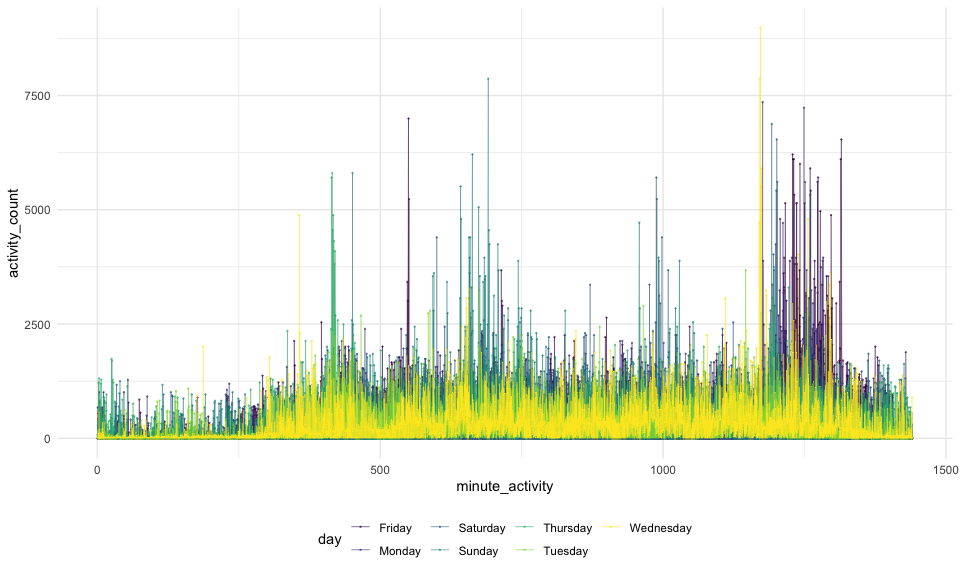
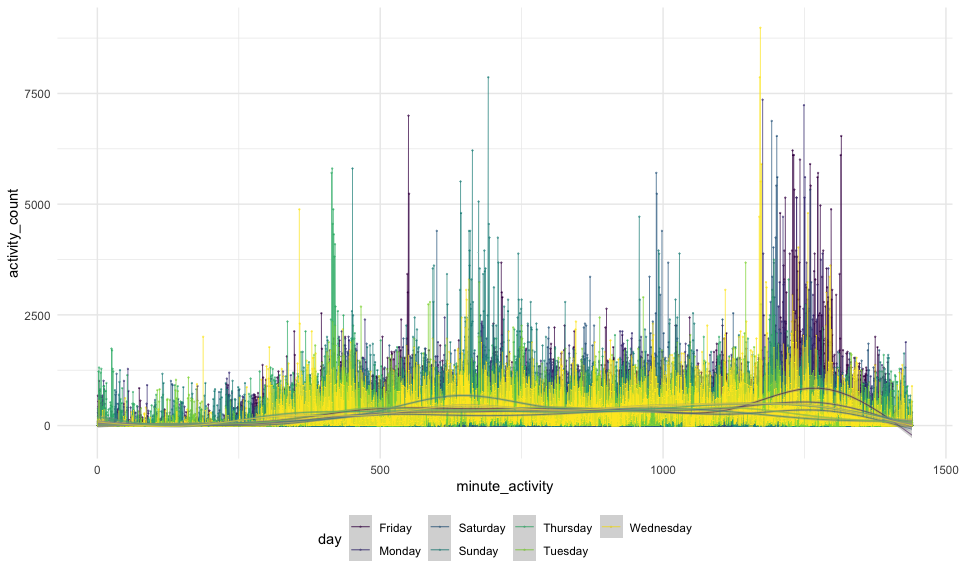
Problem 3 cleaning data, creating max temp plot.

diff --git a/Homework3.md b/Homework3.md
@@ -11,6 +11,7 @@ Describe the data:
 data("instacart")
 ```
 
+**comments**  
 The dataset instacart contains 1384617 observations and 15 columns.
 Observations are at the level of items in orders placed by users. The
 variables provide information about the users/orders and the items
@@ -45,6 +46,7 @@ instacart %>%
     ## 10 bread                          23635
     ## # … with 124 more rows
 
+**comments**  
 There are 134 aisles, with most items ordered from the fresh fruits and
 fresh vegetables aisles.
 
@@ -64,7 +66,7 @@ instacart %>%
 ```
 
 <img src="Homework3_files/figure-gfm/unnamed-chunk-3-1.png" width="90%" />
-
+**comments**  
 Most of the aisles with order counts above 10,000 show between 10k - 20k
 orders. There are about 8 aisles with order counts between 20-40k, 3
 aisles with order counts between 40-80k, and two aisles (fruit and
@@ -95,6 +97,7 @@ instacart %>%
 | packaged vegetables fruits | Organic Raspberries                           | 5546 |    2 |
 | packaged vegetables fruits | Organic Blueberries                           | 4966 |    3 |
 
+**comments**  
 The most popular items in baking are brown sugar, baking soda, and cane
 sugar. The most popular items in dog food care are snack sticks, organix
 chicken recipe, and small dog biscuits. The most popular items in
@@ -122,6 +125,7 @@ instacart %>%
     ## 1 Coffee Ice Cream  13.8  14.3  15.4  15.3  15.2  12.3  13.8
     ## 2 Pink Lady Apples  13.4  11.4  11.7  14.2  11.6  12.8  11.9
 
+**comments**  
 Overall coffee ice cream is ordered a little later in the day on
 weekdays (around 3pm), while pink lady apples are ordered a little
 earlier in the day (around noon). On weekends both products on average
@@ -146,6 +150,7 @@ accel_df <- read_csv("./data/accel_data.csv") %>%
   mutate(minute_activity = rep((1:1440), times = 35))
 ```
 
+**comments**  
 The dataset accel\_df contains 50400 observations and 6 variables.
 Variables are the week, the day, the specific minute of the day, the
 activity count in that minute, and whether it was a weekend or a
@@ -175,39 +180,79 @@ accel_df %>%
 |    4 | 154049.0 | 409450.00 |     1440 | 260617 | 340291.0 | 319568.0 |    434460 |
 |    5 | 620860.0 | 389080.00 |     1440 | 138421 | 549658.0 | 367824.0 |    445366 |
 
+**comments**  
 From this summary it seems that in weeks 4 and 5 the activity on Sunday
 and particularly Saturday was lower than the other days and weeks. Other
 than that trends are not very apparent.
 
 Create a plot showing activity over the course of the day, with each day
-of the week represented by a different color. For ease of viewing I have
-averaged the activity for each day of the week across the 5 weeks.
+of the week represented by a different color.
 
 ``` r
 accel_df %>% 
-  #group_by(day, minute_activity) %>% 
-  #mutate(avg_activity_count = mean(activity_count)) %>% 
   ggplot(aes(x = minute_activity, y = activity_count, color = day)) + 
   geom_point(size = .1, alpha = .5) +
-  geom_line(size = .2)
+  geom_line(size = .2) + 
+  geom_smooth(size = .2)
 ```
 
 <img src="Homework3_files/figure-gfm/unnamed-chunk-8-1.png" width="90%" />
+**comments**  
 Based on this graph I can see that the first \~300 minutes of the day
-have much less activity. There are some spikes in activity around
-500-700 minutes and around 1300-1400 minutes. The spikes later in the
-day are particularly pronounced on Fridays.
+have much less activity than the rest of the day. There are some spikes
+in activity around 500-700 minutes (especially for Sundayand) and around
+1300-1400 minutes. The spikes later in the day are particularly
+pronounced on Fridays.
 
 ## Problem 3
 
-use count for snowfall.
+Describe the dataset:
 
-data manipulation (group a bunch, filter, then summarize) + plots. For
-each station (multiple lines), time course over the years for June and
-July in two panels
+``` r
+data("ny_noaa")
+miss_prcp <-
+  ny_noaa %>% 
+  drop_na(prcp)
+miss_snow <-
+  ny_noaa %>% 
+  drop_na(snow)
+miss_snwd <-
+  ny_noaa %>% 
+  drop_na(snwd)
+miss_tmax <-
+  ny_noaa %>% 
+  drop_na(tmax)
+miss_tmin <-
+  ny_noaa %>% 
+  drop_na(tmin)
+```
 
-use patchwork to merge plots. Don’t use scatterplot, maybe use contour
-plot, bin plot, hex plot…
+The dataset ny\_noaa contains 2595176 observations and 7 variables.
+Variables include: id, date, prcp, snow, snwd, tmax, tmin. It includes
+data from 1981-01-01 to 2010-12-31. There are 145838 missing prcp
+values, 381221 missing snow values, 591786 missing snwd values, 1134358
+missing tmax values, and 1134420 missing tmin values.
 
-First filter, then show distribution (ridge, box, violin, etc…) for each
-year.
+The goal is to do some exploration of this dataset. To that end, write a
+short description of the dataset, noting the size and structure of the
+data, describing some key variables, and indicating the extent to which
+missing data is an issue. Then, do or answer the following (commenting
+on the results of each):
+
+Do some data cleaning. Create separate variables for year, month, and
+day. Ensure observations for temperature, precipitation, and snowfall
+are given in reasonable units. For snowfall, what are the most commonly
+observed values? Why? Make a two-panel plot showing the average max
+temperature in January and in July in each station across years. Is
+there any observable / interpretable structure? Any outliers? Make a
+two-panel plot showing (i) tmax vs tmin for the full dataset (note that
+a scatterplot may not be the best option); and (ii) make a plot showing
+the distribution of snowfall values greater than 0 and less than 100
+separately by year.
+
+Notes: use count for snowfall. data manipulation (group a bunch, filter,
+then summarize) + plots. For each station (multiple lines), time course
+over the years for June and July in two panels use patchwork to merge
+plots. Don’t use scatterplot, maybe use contour plot, bin plot, hex
+plot… First filter, then show distribution (ridge, box, violin, etc…)
+for each year.
